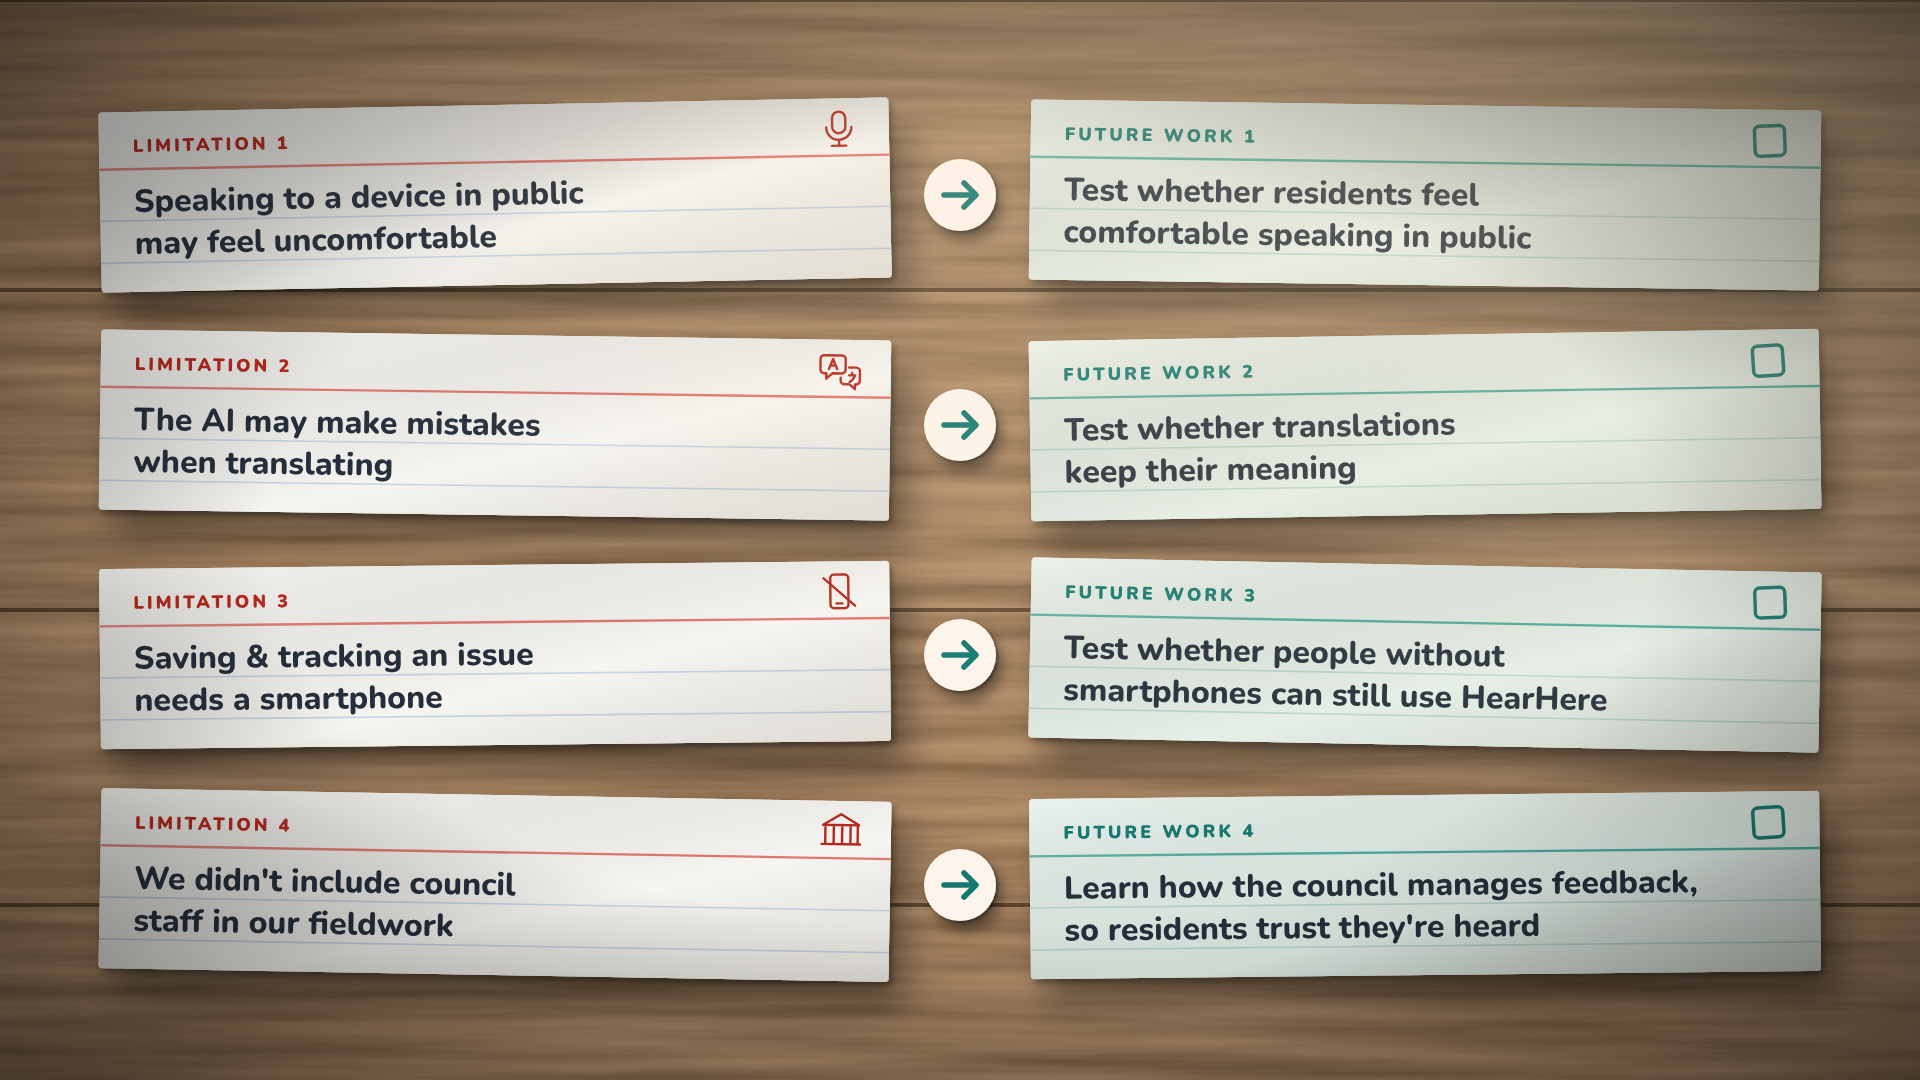
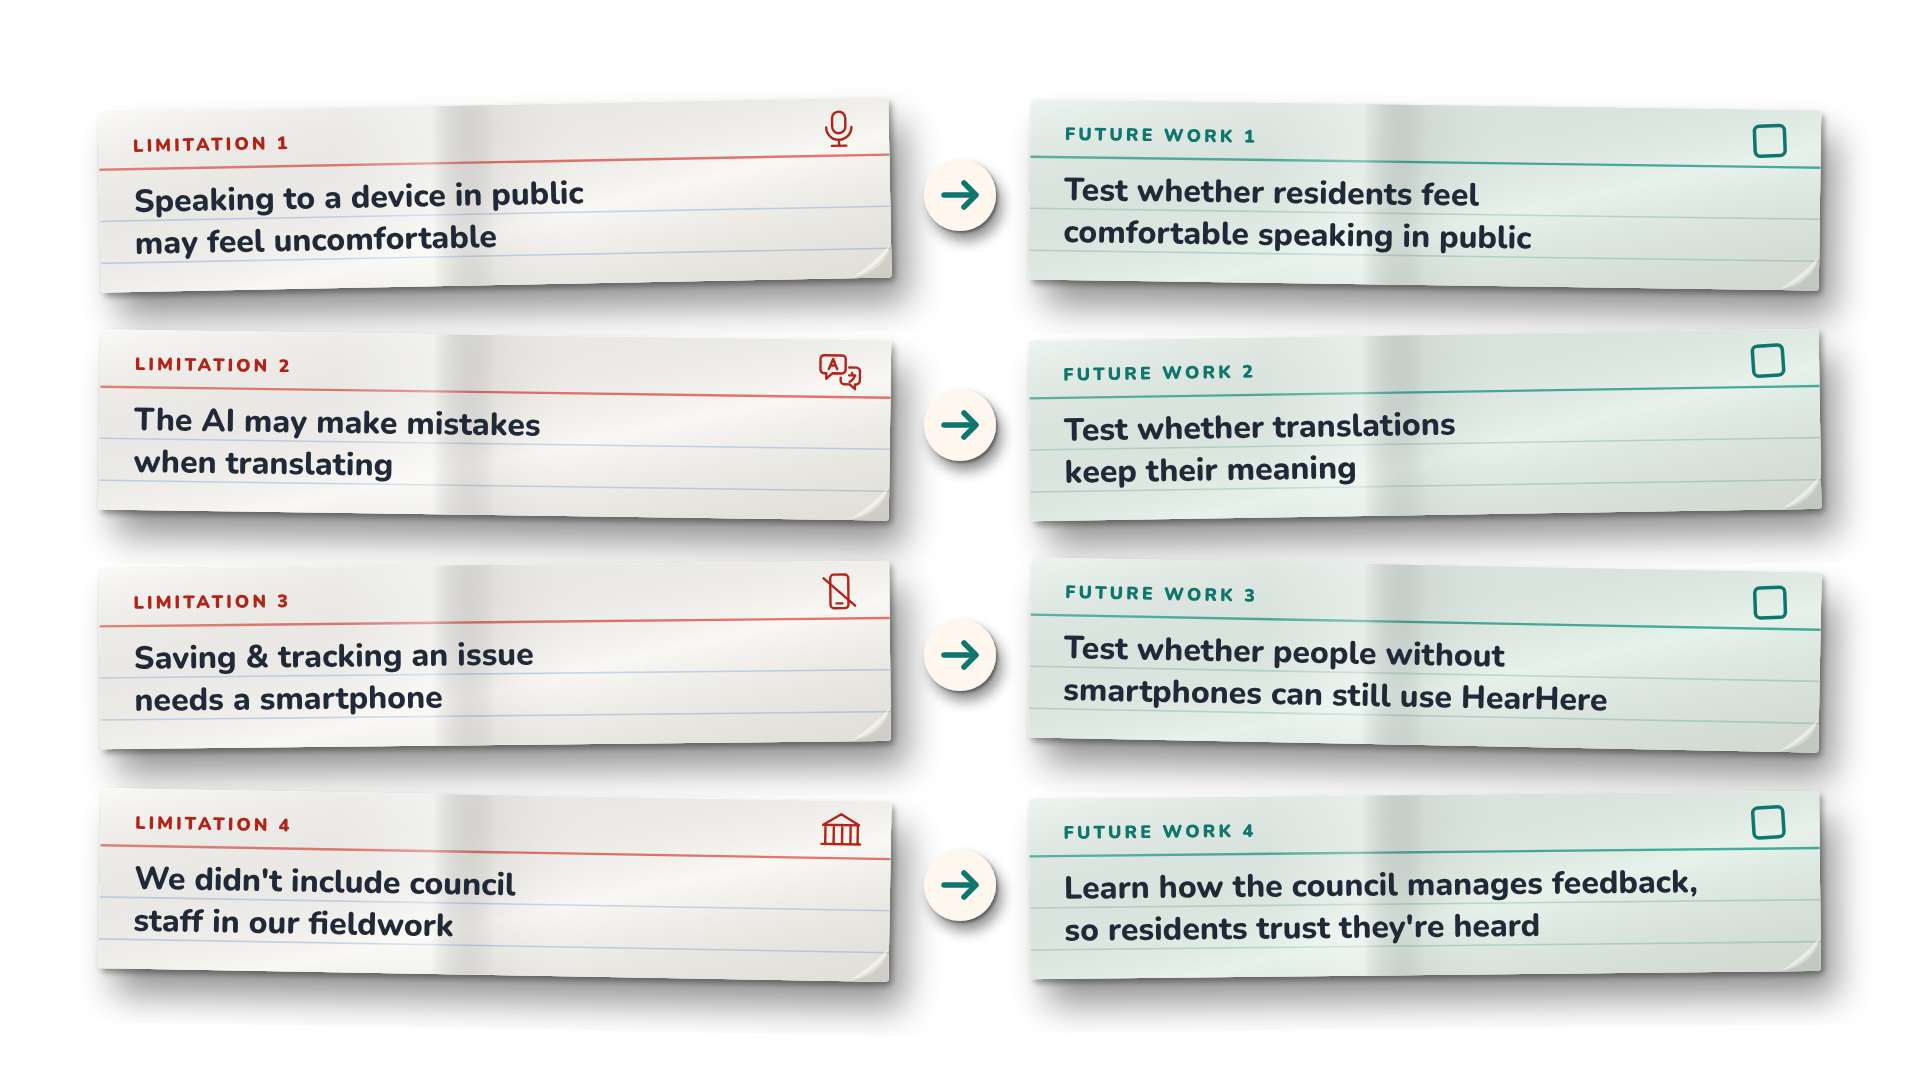
Limitations card: transparent background, more realistic paper
Removes the desk so the cards can sit over any footage; the PNG keeps
alpha. Cards get a fold highlight and a lifted corner.

Claude-Session: https://claude.ai/code/session_01YLXkZryRbXP9tgZBgBqtEZ

diff --git a/video/cards/build_limits_card.js b/video/cards/build_limits_card.js
@@ -1,5 +1,5 @@
 // Full-frame (1920x1080) "Limitations & future work" card, same realistic look as the problem
-// cards: index cards on a wooden desk, each limitation (left) paired with the future work that
+// cards: index cards on a transparent background, each limitation (left) paired with the future work that
 // answers it (right).  Content only, no title.
 // Build: cd video && node cards/build_limits_card.js   -> output/problem_cards/limitations_future_work.svg
 const fs = require('fs');
@@ -34,6 +34,9 @@ function card(x, y, w, h, rot, o) {
     <rect width="${w}" height="${h}" rx="4" fill="${o.bg}" filter="url(#paper)"/>
     ${rules}<rect x="0" y="56" width="${w}" height="2.4" fill="${o.line}" opacity="0.8"/>
     <rect width="${w}" height="${h}" rx="4" fill="url(#paperShade)"/>
+    <rect width="${w}" height="${h}" rx="4" fill="url(#crease)"/>
+    <path d="M${w} ${h - 34} Q${w - 6} ${h - 6} ${w - 40} ${h} L${w} ${h}z" fill="#000" opacity="0.08"/>
+    <path d="M${w} ${h - 34} Q${w - 10} ${h - 10} ${w - 40} ${h} Q${w - 16} ${h - 16} ${w} ${h - 34}z" fill="#fff" opacity="0.5"/>
     ${T(34, 40, o.label, { size: 18, w: 900, fill: o.labelCol, ls: 3 })}
     ${o.lines.map((l, i) => T(34, 100 + i * 42, l, { size: 32, w: 800, fill: INK })).join('')}
     ${o.extra || ''}
@@ -54,18 +57,12 @@ function build() {
       <g fill="none" stroke="#0F766E" stroke-width="5.5" stroke-linecap="round" stroke-linejoin="round"><path d="M-16 0 H15"/><path d="M4 -12 L16 0 L4 12"/></g></g>`;
     return lim + badge + fut;
   }).join('');
-  const planks = [0, 290, 610, 905].map((py) => `<rect x="0" y="${py - 2}" width="1920" height="4" fill="#1E1008" opacity="0.55"/><rect x="0" y="${py + 2}" width="1920" height="1.5" fill="#F4C68C" opacity="0.18"/>`).join('');
   return `<svg xmlns="http://www.w3.org/2000/svg" width="1920" height="1080" viewBox="0 0 1920 1080">
 <title>Limitations and future work</title>
 <defs><style>${FONT_CSS}</style>${DEFS}${EXTRA_DEFS}${defs1}
-<radialGradient id="deskVig" cx="50%" cy="50%" r="72%"><stop offset="0.5" stop-color="#000" stop-opacity="0"/><stop offset="1" stop-color="#000" stop-opacity="0.6"/></radialGradient>
+<linearGradient id="crease" x1="0" y1="0" x2="1" y2="0"><stop offset="0.3" stop-color="#fff" stop-opacity="0"/><stop offset="0.42" stop-color="#fff" stop-opacity="0.35"/><stop offset="0.5" stop-color="#000" stop-opacity="0.04"/><stop offset="0.62" stop-color="#fff" stop-opacity="0"/></linearGradient>
 </defs>
-<rect width="1920" height="1080" filter="url(#wood1)"/>${planks}
-<rect width="1920" height="1080" fill="#1A0F08" opacity="0.18"/>
 ${rows}
-<rect width="1920" height="1080" fill="url(#warmLight)"/>
-<rect width="1920" height="1080" fill="url(#deskVig)"/>
-<rect width="1920" height="1080" filter="url(#grain)"/>
 </svg>`;
 }
 

diff --git a/video/cards/render_cards.js b/video/cards/render_cards.js
@@ -11,7 +11,7 @@ const DIR = path.resolve(__dirname, '../../output/problem_cards');
     await page.goto('file://' + path.join(DIR, f));
     await page.evaluate(() => document.fonts.ready);
     await page.waitForTimeout(300);
-    await page.screenshot({ path: path.join(DIR, f.replace(/\.svg$/, '.png')) });
+    await page.screenshot({ path: path.join(DIR, f.replace(/\.svg$/, '.png')), omitBackground: true });
     console.log('rendered', f);
   }
   await browser.close();
